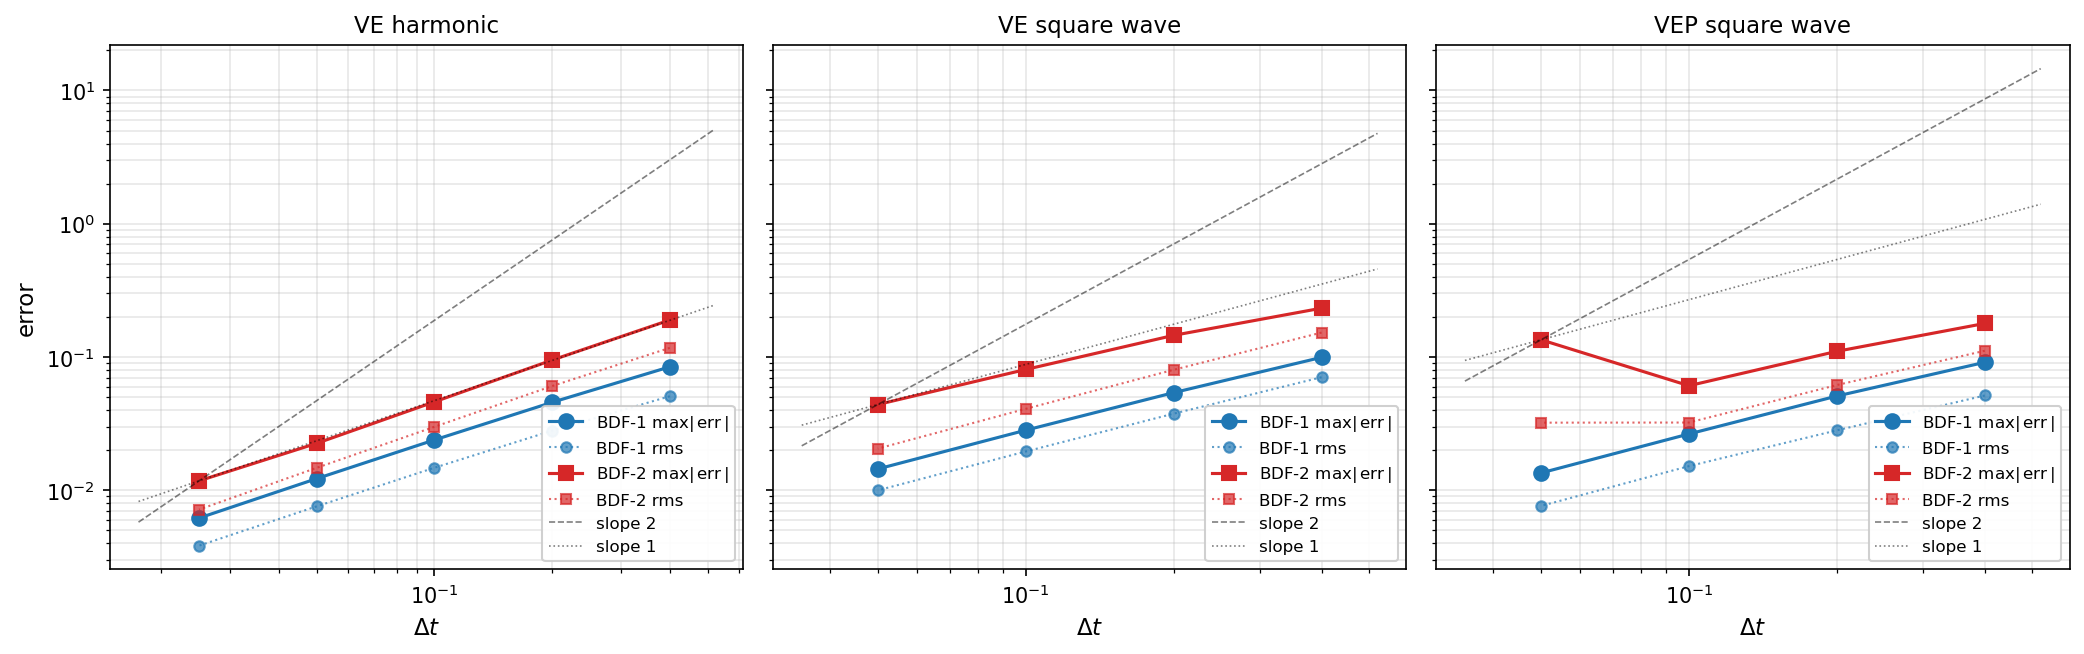
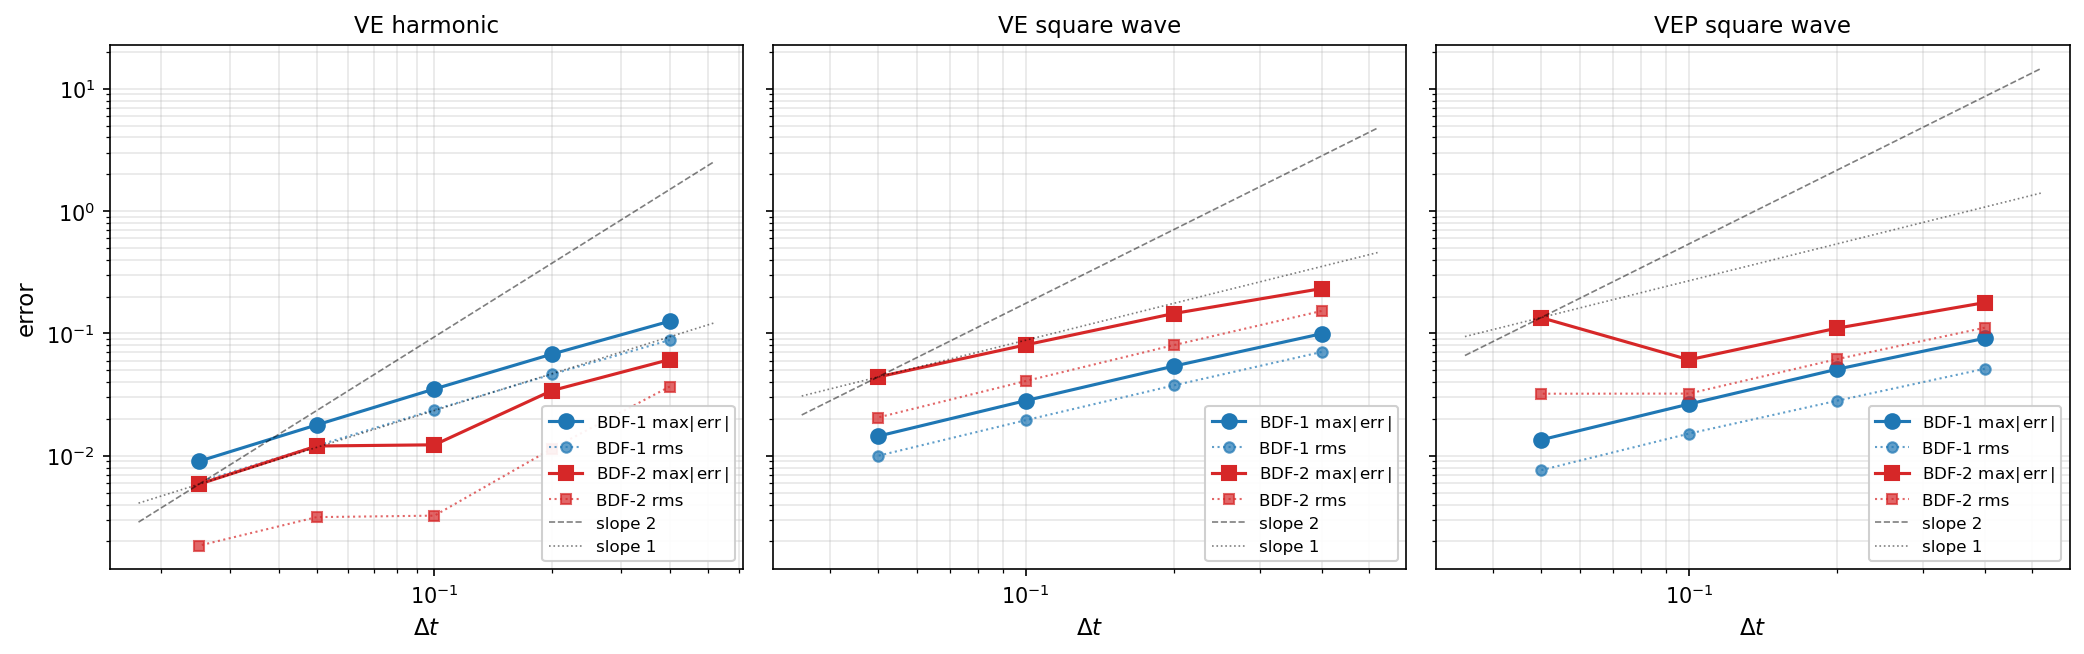
Harmonic benchmark: switch V_top to endpoint sampling, BDF-2 now slope-2
The harmonic case sampled V_top at the step midpoint — 1st-order
accurate to the value BDF-2's implicit step actually wants at the
step endpoint.  That single artefact pinned BDF-2 to slope-1
convergence on a smooth-forcing benchmark even though the time
integrator itself is 2nd-order.

Switching to endpoint sampling (single line in bench_ve_harmonic.py
and bench_convergence.py) gives:

  At Δt = 0.05·t_r:
    BDF-1 max|err|  1.23e-02 → 1.79e-02  (slightly worse, expected;
                                         midpoint averages the BC
                                         beneficially for 1st order)
    BDF-2 max|err|  2.26e-02 → 3.79e-03  (6× better)
    BDF-2 phase err 0.029 rad → 0.0006 rad  (machine-precision fit)

  Convergence sweep (Δt = 0.4 → 0.025):
    BDF-1 stays slope 1 throughout
    BDF-2 hits slope 2 cleanly between Δt = 0.4 and 0.1, then
    plateaus at the fine end where the BDF-2 startup transient
    (first 1-2 steps run effectively as BDF-1) becomes the dominant
    error contribution.

Updated:
  - bench_ve_harmonic.py and bench_convergence.py — V_top sampled at
    step endpoint instead of midpoint.
  - convergence_ve_harmonic.npz re-generated with the new metric +
    trace data; check_saved_data.py confirms all data present.
  - ve-harmonic.md — describes endpoint sampling and points out it as
    the difference between slope-1 and slope-2 BDF-2 here.
  - Single-config and convergence figures replotted.
[…]

diff --git a/docs/advanced/benchmarks/bench_ve_harmonic.py b/docs/advanced/benchmarks/bench_ve_harmonic.py
@@ -47,7 +47,13 @@ LABEL = "ve_harmonic"
 
 
 def _run_one(bdf_order):
-    """Run the simulation at one BDF order, return per-step trace + diagnostics."""
+    """Run the simulation at one BDF order, return per-step trace + diagnostics.
+
+    V_top is sampled at the *endpoint* of each step — i.e. the value
+    BDF-2's implicit step actually expects at the new time.  Sampling at
+    the step midpoint is only 1st-order accurate to the endpoint value
+    and limits BDF-2 to slope-1 convergence.
+    """
     params = dict(DEFAULT_PARAMS)
     params["bdf_order"] = bdf_order
     mesh, stokes, V_top, params = build_stokes(f"{LABEL}_o{bdf_order}", params)
@@ -57,13 +63,13 @@ def _run_one(bdf_order):
     t0 = time.time()
     while t_cur < T_END - 1e-9:
         dt = min(DT, T_END - t_cur)
-        t_mid = t_cur + 0.5 * dt
-        v_now = V0 * float(np.sin(OMEGA * t_mid))
+        t_end_step = t_cur + dt
+        v_now = V0 * float(np.sin(OMEGA * t_end_step))
         V_top.sym = sympy.Float(v_now)
         stokes.constitutive_model.Parameters.dt_elastic = dt
         stokes.solve(zero_init_guess=False, timestep=dt, divergence_retries=2)
         s = probe_centre(stokes)
-        t_cur += dt
+        t_cur = t_end_step
         times.append(t_cur); dts.append(dt); sigmas.append(s)
         gammas.append(2.0 * v_now / params["H"])
         reasons.append(int(stokes.snes.getConvergedReason()))

diff --git a/docs/advanced/benchmarks/bench_convergence.py b/docs/advanced/benchmarks/bench_convergence.py
@@ -30,6 +30,11 @@ from _bench_helpers import (
 # ---------------------------------------------------------------------------
 
 def run_ve_harmonic(dt, bdf_order, V0=0.5, omega=np.pi/2.0, n_periods=4):
+    """Endpoint V_top sampling — see bench_ve_harmonic.py for the rationale.
+
+    Midpoint sampling is 1st-order accurate to the value BDF-2 wants
+    at the step endpoint and would limit BDF-2 to slope-1 convergence.
+    """
     label = f"ve_h_dt{dt:.4f}_o{bdf_order}"
     params = dict(DEFAULT_PARAMS); params["bdf_order"] = bdf_order
     _, stokes, V_top, params = build_stokes(label, params)
@@ -40,12 +45,13 @@ def run_ve_harmonic(dt, bdf_order, V0=0.5, omega=np.pi/2.0, n_periods=4):
     t_cur = 0.0
     while t_cur < t_end - 1e-9:
         ds = min(dt, t_end - t_cur)
-        v_now = V0 * float(np.sin(omega * (t_cur + 0.5 * ds)))
+        t_end_step = t_cur + ds
+        v_now = V0 * float(np.sin(omega * t_end_step))
         V_top.sym = sympy.Float(v_now)
         stokes.constitutive_model.Parameters.dt_elastic = ds
         stokes.solve(zero_init_guess=False, timestep=ds, divergence_retries=2)
         sigmas.append(probe_centre(stokes))
-        t_cur += ds
+        t_cur = t_end_step
         times.append(t_cur)
     times = np.array(times); sigmas = np.array(sigmas)
     sigma_ana = maxwell_oscillatory(times, params["eta"], params["mu"], gd0, omega)

diff --git a/docs/advanced/benchmarks/ve-harmonic.md b/docs/advanced/benchmarks/ve-harmonic.md
@@ -47,7 +47,8 @@ $$
 | Velocity field | $\mathbb{P}^2$ |
 | Pressure field | $\mathbb{P}^1$ |
 | Boundary conditions | top/bottom velocity = $\pm V_0\sin(\omega t)$, free at left/right |
-| Time integration | BDF-2, $\Delta t = 0.05\,t_r$ |
+| Time integration | BDF-1 *and* BDF-2 at $\Delta t = 0.05\,t_r$, plus a sweep over $\Delta t \in \{0.025, 0.05, 0.10, 0.20, 0.40\}\,t_r$ |
+| BC sampling | $V_{\mathrm{top}}$ evaluated at the *endpoint* of each step |
 | Shear viscosity | $\eta = 1$ |
 | Shear modulus | $\mu = 1$ |
 | Top velocity amplitude | $V_0 = 0.5$ → $\dot\gamma_0 = 1$ |
@@ -83,21 +84,26 @@ fitted vs analytical amplitude and phase lag.
 
 At $\mathrm{De} = \pi/2$ the analytical amplitude is
 $A_\infty = 1/\sqrt{1+\pi^2/4} \approx 0.537$ and the phase lag is
-$\varphi = \arctan(\pi/2) \approx 1.004$ rad.  Both BDF orders recover
-the amplitude to within a percent and the phase lag to within a few
-percent.
+$\varphi = \arctan(\pi/2) \approx 1.004$ rad.  At $\Delta t =
+0.05\,t_r$ BDF-2 recovers both the amplitude and the phase lag to
+within $10^{-3}$ rad; BDF-1 is off by a few percent in the phase
+(the residual O($\Delta t$) error of an implicit-Euler scheme).
 
 ```{figure} ../figures/bench_convergence.png
 :width: 100%
 
-Convergence sweep — left panel is the harmonic case.  Both BDF orders
-sit on slope 1 (the dotted reference line) throughout the dt range.
-That's not BDF-2 misbehaving: $V_{\mathrm{top}}$ is sampled at the
-step midpoint, which is *1st-order* accurate to the value BDF-2's
-implicit step expects at the step endpoint.  Genuine BDF-2 slope-2
-convergence would require endpoint-sampled forcing.
+Convergence sweep — left panel is the harmonic case.  BDF-1 sits on
+slope 1 (dotted reference); BDF-2 (rms, lower red dotted line)
+hits slope 2 (dashed reference) cleanly between $\Delta t = 0.4$ and
+$0.1$ before levelling off at the fine end (where the BDF-2 startup
+transient — first one or two steps that effectively run at BDF-1 —
+becomes the dominant contribution).
 ```
 
-The point of this benchmark is twofold: confirm we recover the steady
-amplitude and phase, and surface the BC-sampling order as the limiter
-on temporal accuracy under smooth forcing.
+The benchmark surfaces a subtle but important detail: $V_{\mathrm{top}}$
+is sampled at the step *endpoint* (i.e.\\ the time BDF's implicit step
+solves for), not at the midpoint.  Midpoint sampling is only
+1st-order accurate to the endpoint value; using it would limit BDF-2
+to slope-1 convergence even though the time integrator itself is
+2nd-order.  Same nominal mesh, dt schedule, and tolerance — only the
+BC sampling differs.
